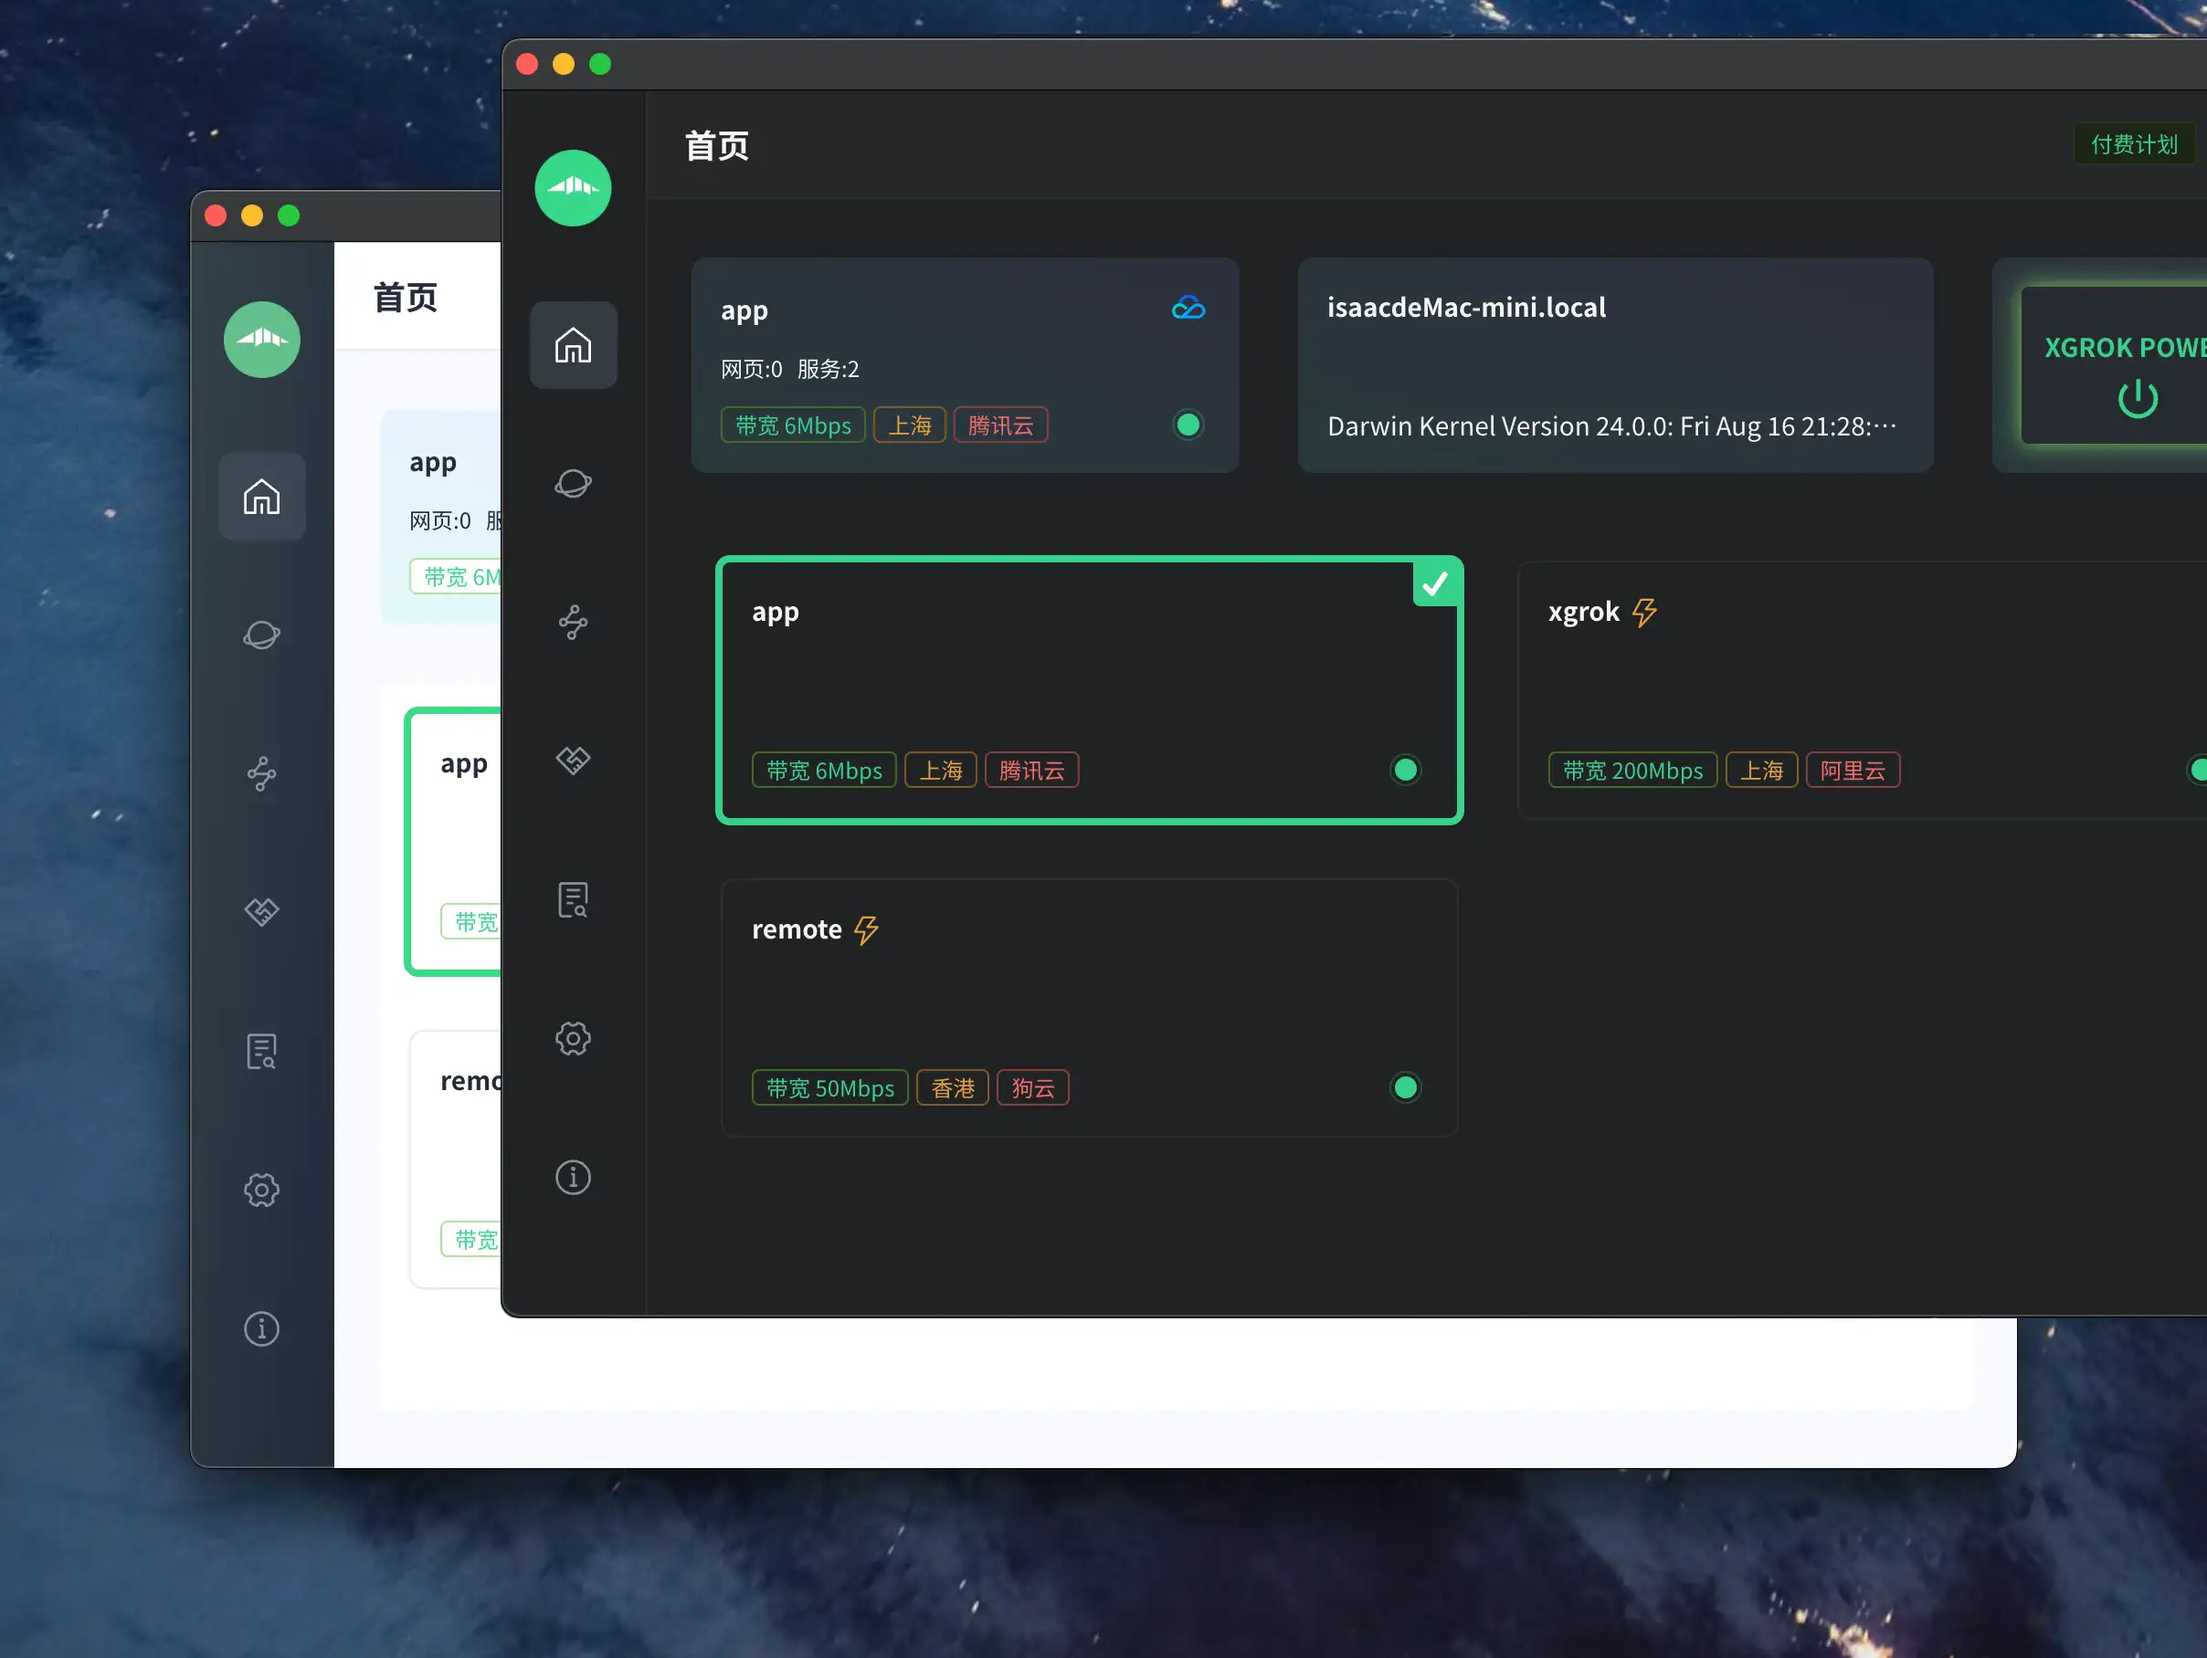
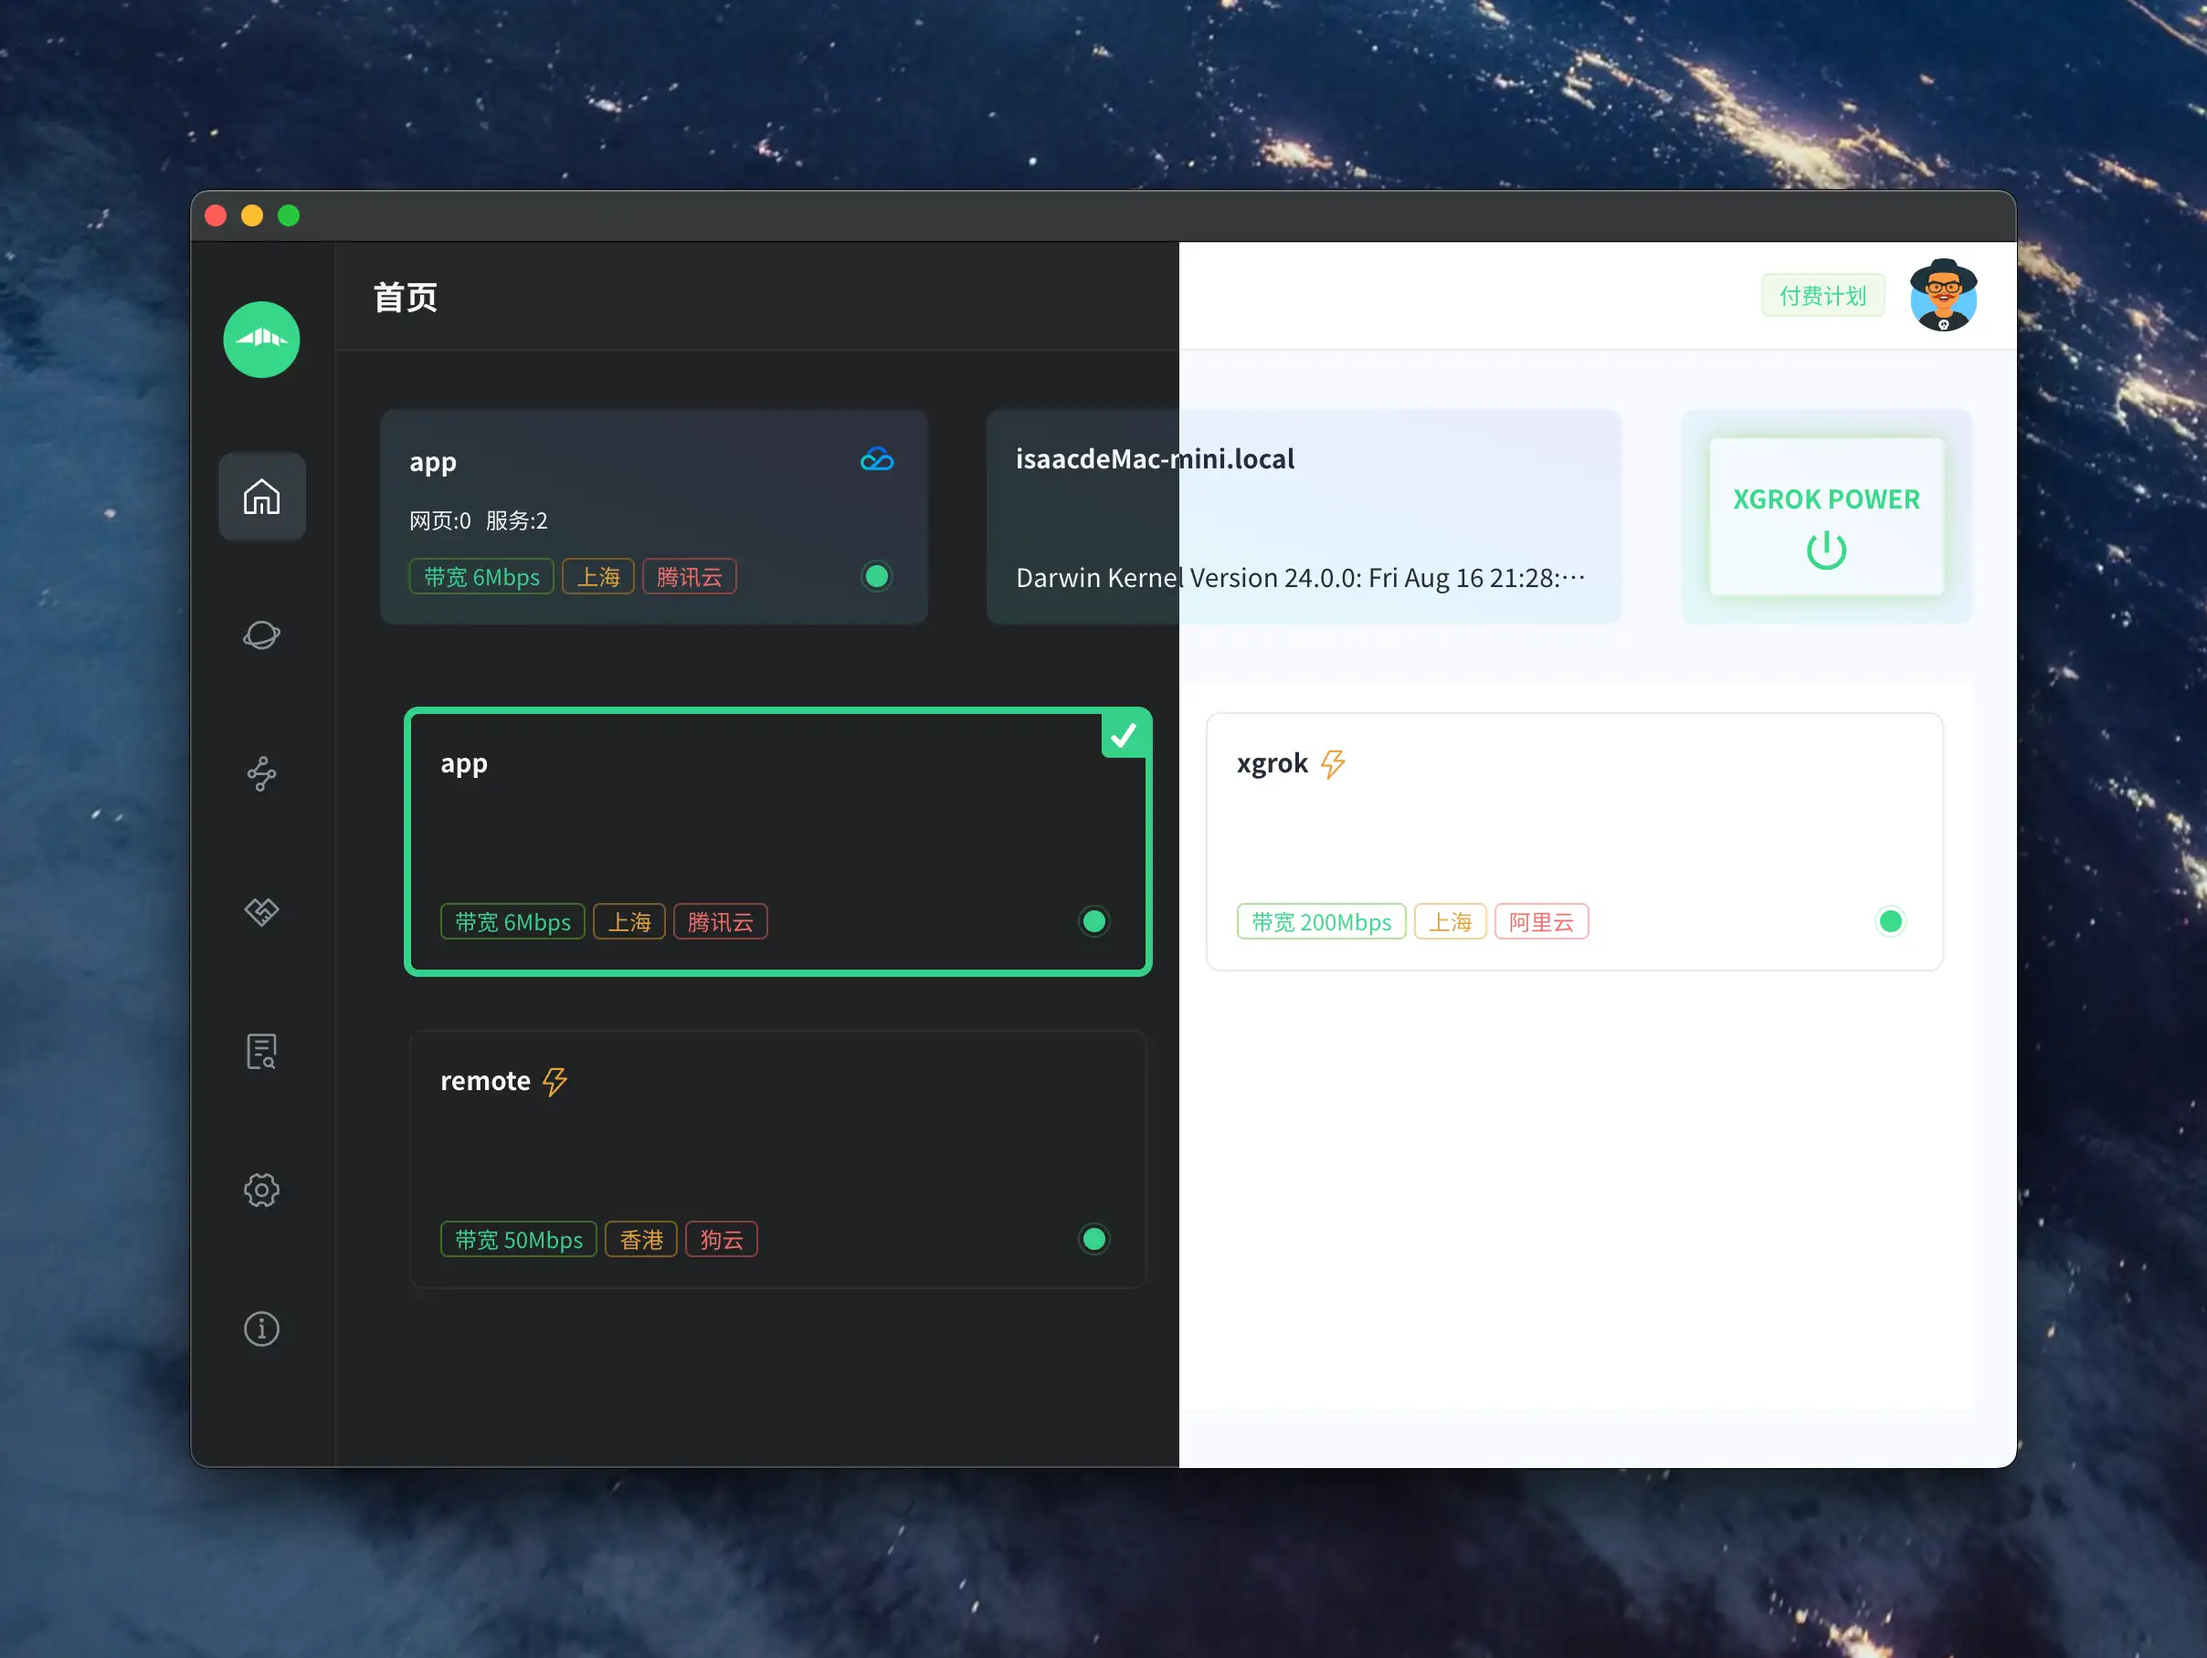
更新截图

diff --git a/README.md b/README.md
@@ -6,6 +6,8 @@
 
 官网：https://www.xdo.icu/
 
+![poster.webp](assets%2F%E8%BD%AF%E4%BB%B6%E7%95%8C%E9%9D%A2%2Fposter.webp)
+
 ## 一、安装
 ### Windows
 直接官网下载exe文件进行安装。
@@ -26,15 +28,17 @@ sudo xattr -r -d com.apple.quarantine /Applications/xgrok.app
 ## 二、软件截图
 
 
-![c0.png](assets%2F%E8%BD%AF%E4%BB%B6%E7%95%8C%E9%9D%A2%2Fc0.webp)
+![c0.webp](assets%2F%E8%BD%AF%E4%BB%B6%E7%95%8C%E9%9D%A2%2Fc0.webp)
 
-![c1.png](assets%2F%E8%BD%AF%E4%BB%B6%E7%95%8C%E9%9D%A2%2Fc1.webp)
+![c1.webp](assets%2F%E8%BD%AF%E4%BB%B6%E7%95%8C%E9%9D%A2%2Fc1.webp)
 
-![c2.png](assets%2F%E8%BD%AF%E4%BB%B6%E7%95%8C%E9%9D%A2%2Fc2.webp)
+![c2.webp](assets%2F%E8%BD%AF%E4%BB%B6%E7%95%8C%E9%9D%A2%2Fc2.webp)
 
-![c3.png](assets%2F%E8%BD%AF%E4%BB%B6%E7%95%8C%E9%9D%A2%2Fc3.webp)
+![c3.webp](assets%2F%E8%BD%AF%E4%BB%B6%E7%95%8C%E9%9D%A2%2Fc3.webp)
 
-![c4.png](assets%2F%E8%BD%AF%E4%BB%B6%E7%95%8C%E9%9D%A2%2Fc4.webp)
+![c4.webp](assets%2F%E8%BD%AF%E4%BB%B6%E7%95%8C%E9%9D%A2%2Fc4.webp)
+
+![c10.webp](assets%2F%E8%BD%AF%E4%BB%B6%E7%95%8C%E9%9D%A2%2Fc10.webp)
 
 
 ## 三、计划清单
